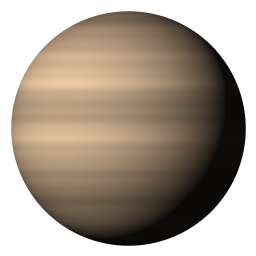
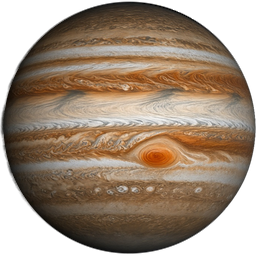
Ship the real planet cutouts as the demo artwork
They are the repository owner's own images, so the placeholder spheres drawn
for the previous commit have no reason to exist: demo/assets/planets now holds
the nine cutouts themselves, under this repository's MIT licence like
demo/assets/sun.png and moon.png, and tools/make_placeholder_planets.py is
gone.

Two things fall out of the swap. The docs strip is rendered from the real
discs, so the README shows what the card actually looks like. And the default
`discs` numbers in the card are the measurements of exactly these files, so
anyone copying them to /local needs no `discs:` block at all.

HACS still installs one file, so README says plainly that the artwork does not
arrive with the card and has to be copied to /config/www.

diff --git a/tools/render_planets_doc.py b/tools/render_planets_doc.py
@@ -5,11 +5,9 @@ Like tools/render_docs.py, the picture comes from running code rather than from
 a drawing: this builds the real <sun-cycle-bg-card> against stubbed view chrome
 and stubbed `sensor.sol_*` states, and photographs three panels of it.
 
-The discs are the placeholder artwork from demo/assets/planets (see
-tools/make_placeholder_planets.py) — the card ships no planet pictures, so the
-documentation must not either.
+The discs are the cutouts in demo/assets/planets, placed by the `discs.json`
+that tools/cutout_planets.py wrote next to them.
 
-    python3 tools/make_placeholder_planets.py
     python3 tools/render_planets_doc.py         # -> docs/planets.png
 
 Needs: playwright (with chromium).

diff --git a/README.md b/README.md
@@ -208,9 +208,11 @@ fan and the moon halo. The two options are independent.
 
 **No artwork ships with the card.** These are paths to your files (`/local/...`),
 so the card itself carries no images and you keep whatever licence your own
-artwork has. The two PNGs under `demo/assets/` exist only to drive
-`demo/images-poc.html`; they are the repository owner's own artwork and fall
-under this repository's MIT licence like the rest of it.
+artwork has. The PNGs under `demo/assets/` — the two discs and the nine
+planets — are the repository owner's own artwork and fall under this
+repository's MIT licence like the rest of it; HACS installs only
+`sun-cycle-bg.js`, so they are there to drive the demo pages and the
+documentation, and to be copied to `/local/` by anyone who wants them.
 
 `*_image_disc` is `[diameter / image width, cx / image width, cy / image
 height]` — where the disc actually sits inside the file. Artwork rarely fills
@@ -261,10 +263,8 @@ dusk) — set `stars: false` to avoid doubling the field.
 ![Planets at night, at dusk and in daylight](docs/planets.png)
 
 *The same eight planets at three sun elevations: −16° (full opacity), −4°
-(fading in with the sky) and +24° (`day: 0.35`). Discs are the placeholder
-artwork from `demo/assets/planets`, drawn by
-[`tools/make_placeholder_planets.py`](tools/make_placeholder_planets.py) —
-the card ships no planet pictures, so neither do these docs.*
+(fading in with the sky) and +24° (`day: 0.35`). Discs are the nine cutouts in
+`demo/assets/planets`.*
 
 ```yaml
 planets: true           # everything below has a default
@@ -300,17 +300,21 @@ overrides individual bodies instead.
 `names:` translates them — `names: {mars: Mars, jupiter: Jowisz}` — the same way
 `bodies:` selects them.
 
-**The pictures.** No artwork ships with the card, exactly as for the sun and
-the moon: `images` is a directory of yours holding `<body>.png`, one per body
-named the way the Sol entities are (`jupiter.png`, `saturn.png`, …), or
-`files` overrides individual paths. They want transparent backgrounds. The nine
-discs under `demo/assets/planets` are *placeholders* — shaded spheres drawn by
-`tools/make_placeholder_planets.py`, this repository's own artwork under its
-MIT licence, there so the documentation has something to photograph. They look
-like planets from across a room and like a diagram up close; use your own
-photographs on a real dashboard.
+**The pictures.** `images` is a directory holding `<body>.png`, one per body
+named the way the Sol entities are (`jupiter.png`, `saturn.png`, …), or `files`
+overrides individual paths. They want transparent backgrounds.
 
-`tools/cutout_planets.py` makes them from renders on a black sky:
+Nine such cutouts sit in [`demo/assets/planets`](demo/assets/planets) — the
+repository owner's own artwork, under this repository's MIT licence like
+`demo/assets/sun.png` and `moon.png`. HACS installs a single file
+(`sun-cycle-bg.js`, see `hacs.json`), so they do not arrive with the card:
+copy the directory to `/config/www/sun-cycle/planets/` yourself and leave
+`images` at its default, or point it wherever you put them. The card's default
+`discs` numbers are the measurements of exactly these files, so they need no
+`discs:` block.
+
+Make your own from renders on a black sky with `tools/cutout_planets.py` —
+the same script that made these:
 
 ```bash
 python3 tools/cutout_planets.py ~/Pictures/planets out/ --size 256
@@ -459,7 +463,6 @@ The planet strip at the top of [Planets](#planets) is rendered the same way the
 other documentation images are — from running code, never drawn by hand:
 
 ```bash
-python3 tools/make_placeholder_planets.py   # -> demo/assets/planets/*.png
 python3 tools/render_planets_doc.py         # -> docs/planets.png
 ```
 
